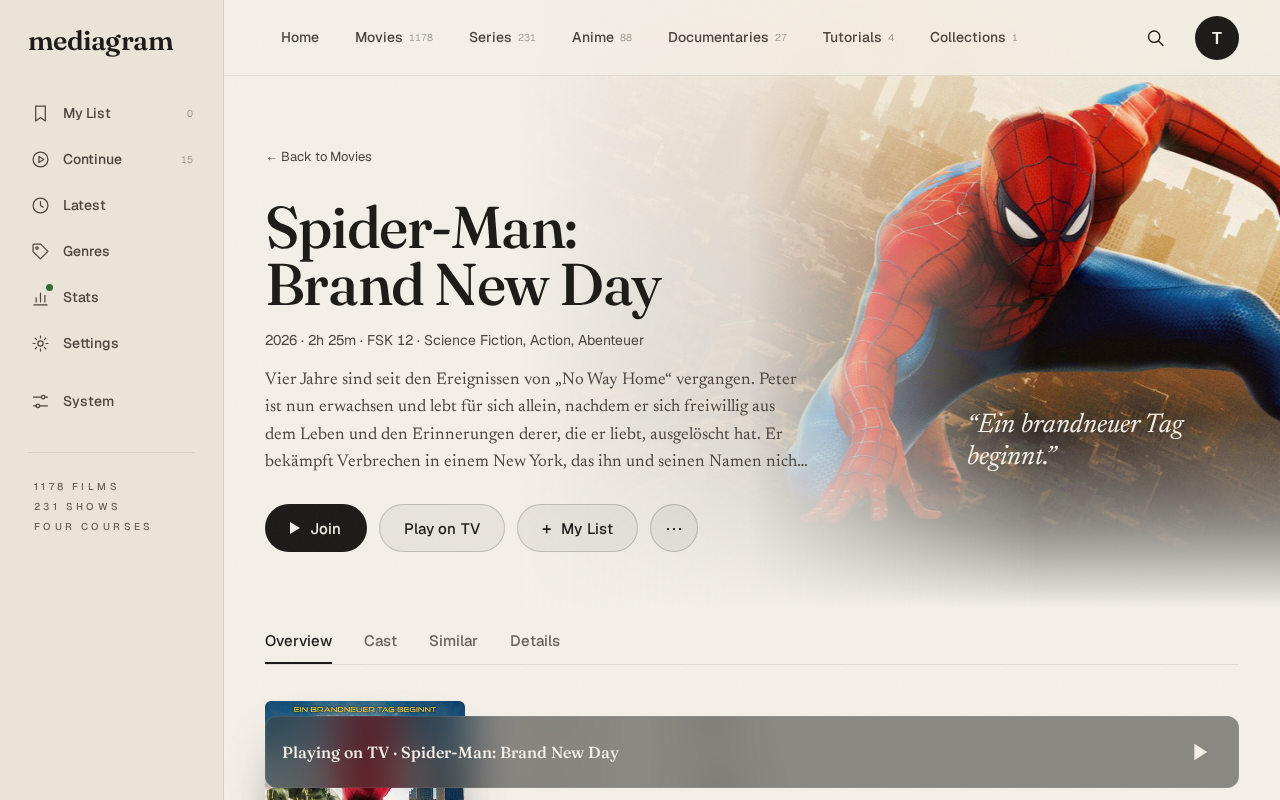
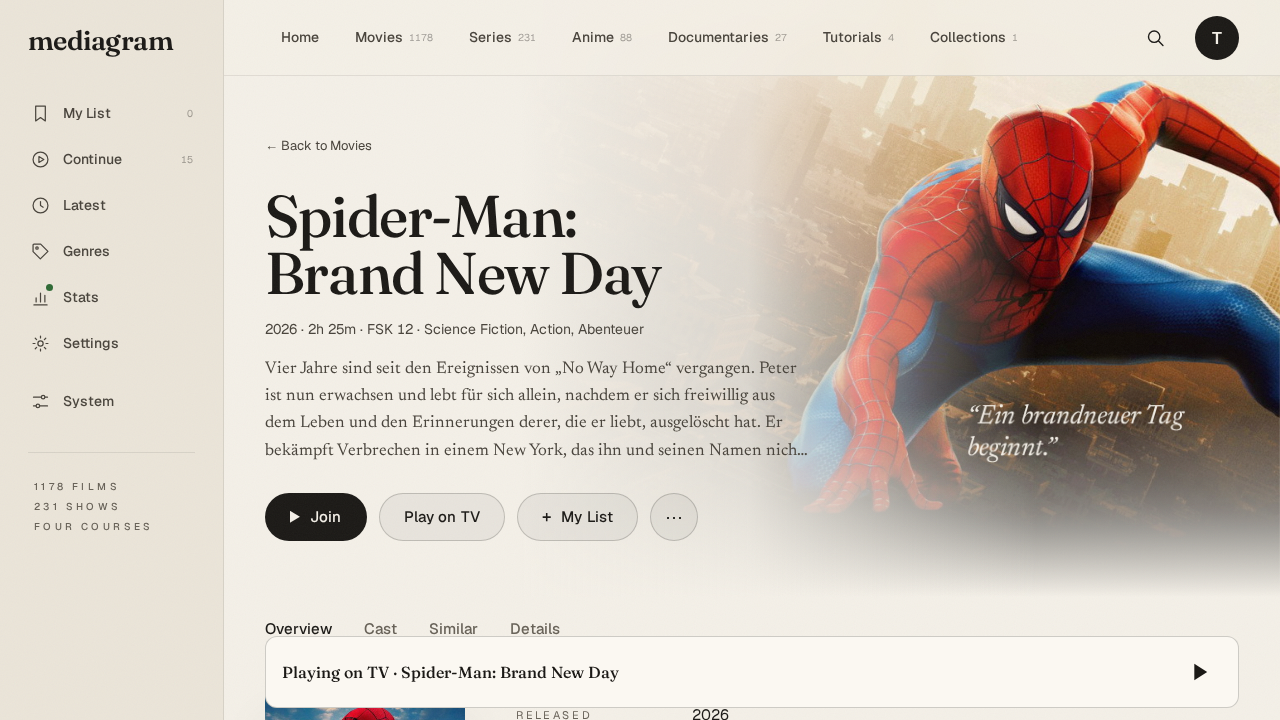
fix(web): cast remote close on phones, readable Playing on TV bar, focus in the ask dialog

diff --git a/web/public/styles/together.css b/web/public/styles/together.css
@@ -96,6 +96,8 @@
   box-shadow: 0 18px 48px rgba(0, 0, 0, 0.6);
 }
 #cast-ask[open] { display: grid; }
+/* Focus sits on the first button when there is one; the box itself never wears the ring. */
+#cast-ask:focus { outline: none; }
 #cast-ask::backdrop { background: rgba(0, 0, 0, 0.5); }
 #cast-ask p { margin: 0; font: 500 1.05rem var(--display); color: var(--stage-ink); }
 .cast-ask-actions { display: flex; justify-content: flex-end; gap: 0.6rem; }
@@ -117,10 +119,16 @@
 #cast-remote:not([open]) { display: none; }
 #cast-remote-art { position: absolute; inset: 0; width: 100%; height: 100%; object-fit: cover; opacity: 0.35; }
 
-/* The "Playing on TV" bar: the control card's surface, the width of `main`, fixed to the bottom. */
+/* The "Playing on TV" bar: the control card's layout on the catalog's own raised surface (the card's glass is made for sitting over video), the width of `main`, fixed to the bottom. */
 .cast-bar { position: fixed; bottom: 0; left: var(--rail-width); width: calc(100% - var(--rail-width)); padding: 0 var(--gutter) 12px; z-index: 15; box-sizing: border-box; pointer-events: none; }
 .cast-bar[hidden] { display: none; }
-.cast-bar-card { grid-template-columns: minmax(0, 1fr) auto; align-items: center; color: var(--stage-ink); pointer-events: auto; }
+.cast-bar-card {
+  grid-template-columns: minmax(0, 1fr) auto; align-items: center; pointer-events: auto;
+  --stage-ink: var(--ink); --stage-accent: var(--accent);
+  color: var(--ink); background: var(--surface); border-color: var(--rule);
+  -webkit-backdrop-filter: none; backdrop-filter: none;
+}
+.cast-bar-card .tsp:hover { background: var(--tint-active); }
 .cast-bar-open { min-height: 44px; padding: 0; border: 0; background: none; color: inherit; font: 500 1rem var(--display); text-align: left; overflow: hidden; text-overflow: ellipsis; white-space: nowrap; cursor: pointer; }
 /* The limit notice sits above the bar rather than under it. */
 body:has(.cast-bar:not([hidden])) .daily-limit-notice { bottom: 96px; }

diff --git a/web/public/lib/cast/cast-ask.js b/web/public/lib/cast/cast-ask.js
@@ -28,7 +28,7 @@ function show(line, buttons) {
   row.replaceChildren();
   dismiss = null;
   if (!dialog().open) dialog().showModal();
-  return new Promise((resolve) => {
+  const answer = new Promise((resolve) => {
     const choose = (label) => { dismiss = null; resolve(label); };
     for (const label of buttons) {
       const button = el("button", "ghost", label);
@@ -39,6 +39,8 @@ function show(line, buttons) {
     }
     if (buttons.length) dismiss = () => choose(buttons.at(-1));
   });
+  row.children[0]?.focus();
+  return answer;
 }
 
 /** Escape is a Cancel or an OK once there is a button to press, and nothing while the TV is being asked. */

diff --git a/web/test/cast-ask.test.ts b/web/test/cast-ask.test.ts
@@ -122,3 +122,13 @@ test("unreachable says Telegram isn't reachable", async () => {
   press("OK");
   expect(await asked).toBeNull();
 });
+
+test("the first button takes focus once there are buttons, and none is focused while only the TV is being asked", async () => {
+  answers({ body: { answer: "busy", live, note: "Dune (2021)", serverNow: 0 } }, {});
+  const asked = askTv(own, "mia");
+  expect(env.document.activeElement).toBeNull();
+  await tick();
+  expect(env.document.activeElement).toBe(buttons()[0] as never);
+  press(CAST_WORDS.cancel);
+  await asked;
+});

diff --git a/web/public/styles/player-card.css b/web/public/styles/player-card.css
@@ -148,7 +148,7 @@ dialog.resting .control-card { pointer-events: none; }
      beneath; the way out stays in the corner, clear of both. */
   .hud-top { flex-wrap: wrap; row-gap: 8px; padding-right: 72px; }
   .hud .what { flex: 1 1 100%; }
-  #close { position: absolute; top: 16px; right: 16px; }
+  #close, #cast-remote-close { position: absolute; top: 16px; right: 16px; }
   .stats-overlay { margin-top: -1.25rem; left: 16px; }
   .card-dock { bottom: max(12px, env(safe-area-inset-bottom)); left: 12px; right: 12px; }
   .control-card { padding: 0.6rem 0.75rem; }

diff --git a/plans/261018-1921-cast-to-tv/reports/walk-261018-preview-cast-report.md b/plans/261018-1921-cast-to-tv/reports/walk-261018-preview-cast-report.md
@@ -41,3 +41,10 @@ Walked 2026-10-18 in the preview harness (`PREVIEW_CAST=accept|busy|refuse|none`
 - Choosing a track in the CC/Audio menus (only the lists were checked), speed menu, and the Next-episode button (film, not an episode).
 - The preview signs back to "Who's watching?" after a few idle minutes (profile lock), and needs the test PIN; unrelated to casting.
 - Tablet/TV surfaces and a real TV.
+
+## Fixes
+
+1. Remote X: `player-card.css` now pins `#close, #cast-remote-close` with one rule, so the remote's X follows the player's at every width. Checked at 390x844 (`preview-cast-accept-remote-phone.png`): X top right, title and label on their own lines.
+2. Bar contrast: `.cast-bar-card` now sits on the catalog's own raised surface (`--surface`, `--rule` border, no blur) with `--ink` type, by mapping `--stage-ink`/`--stage-accent` to the catalog's tokens inside the bar; hover tint is `--tint-active`. Light theme reads dark ink on near-white (`preview-cast-accept-bar-desktop.png`, `-bar-phone.png`); dark theme reads light on `#151517` (`preview-cast-accept-bar-desktop-dark.png`).
+3. Ask dialog focus: `cast-ask.js` focuses the first button once buttons are shown (Cancel in busy, OK in refuse, as the Report panel does); `#cast-ask:focus { outline: none }` removes the ring from the box. While only "Asking the TV..." shows nothing is focused. Test added in `cast-ask.test.ts`. Seen in `busy-question` and `refuse-reason`.
+4. First click after a cold load: not a defect. Root cause: the pill is drawn greyed (`togetherNow()` starts `available: false`) until the first `GET /api/together`, which the event stream's `open` triggers; here that read is sent about 25 ms after the title page draws, so the window is tiny. Measured on a cold load: `/api/sets` ends at 8472 ms, `/api/together` starts at 8497 ms; the pill was enabled at its first poll and a click at first appearance opened the dialog. No stale `askTv` promise or late-wired handler (the node is never replaced after its first draw). The Watch together button reads the same `togetherNow()`, so the behaviour is shared and left alone. Could not reproduce the "did nothing" click; the likeliest cause was a click inside that window on a slower run.
